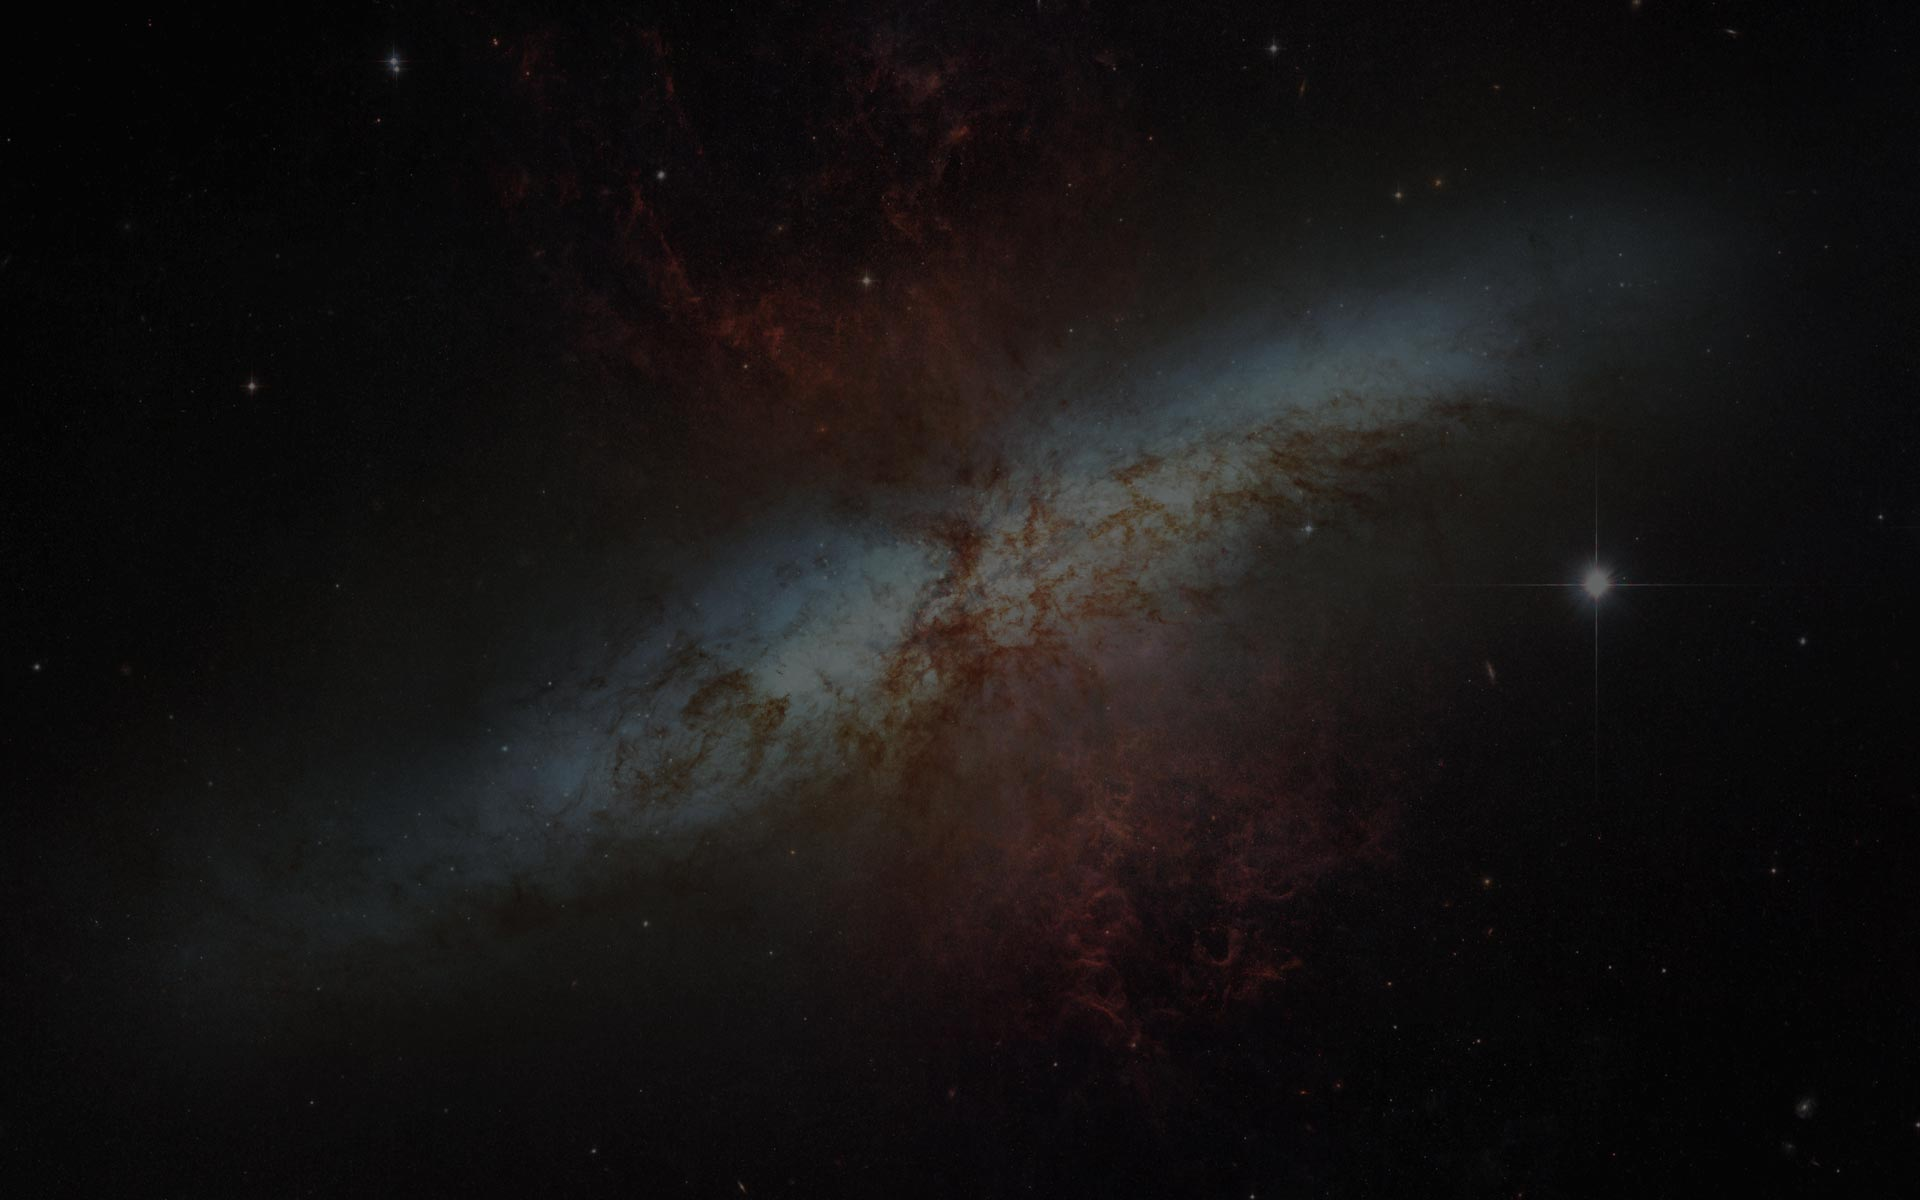
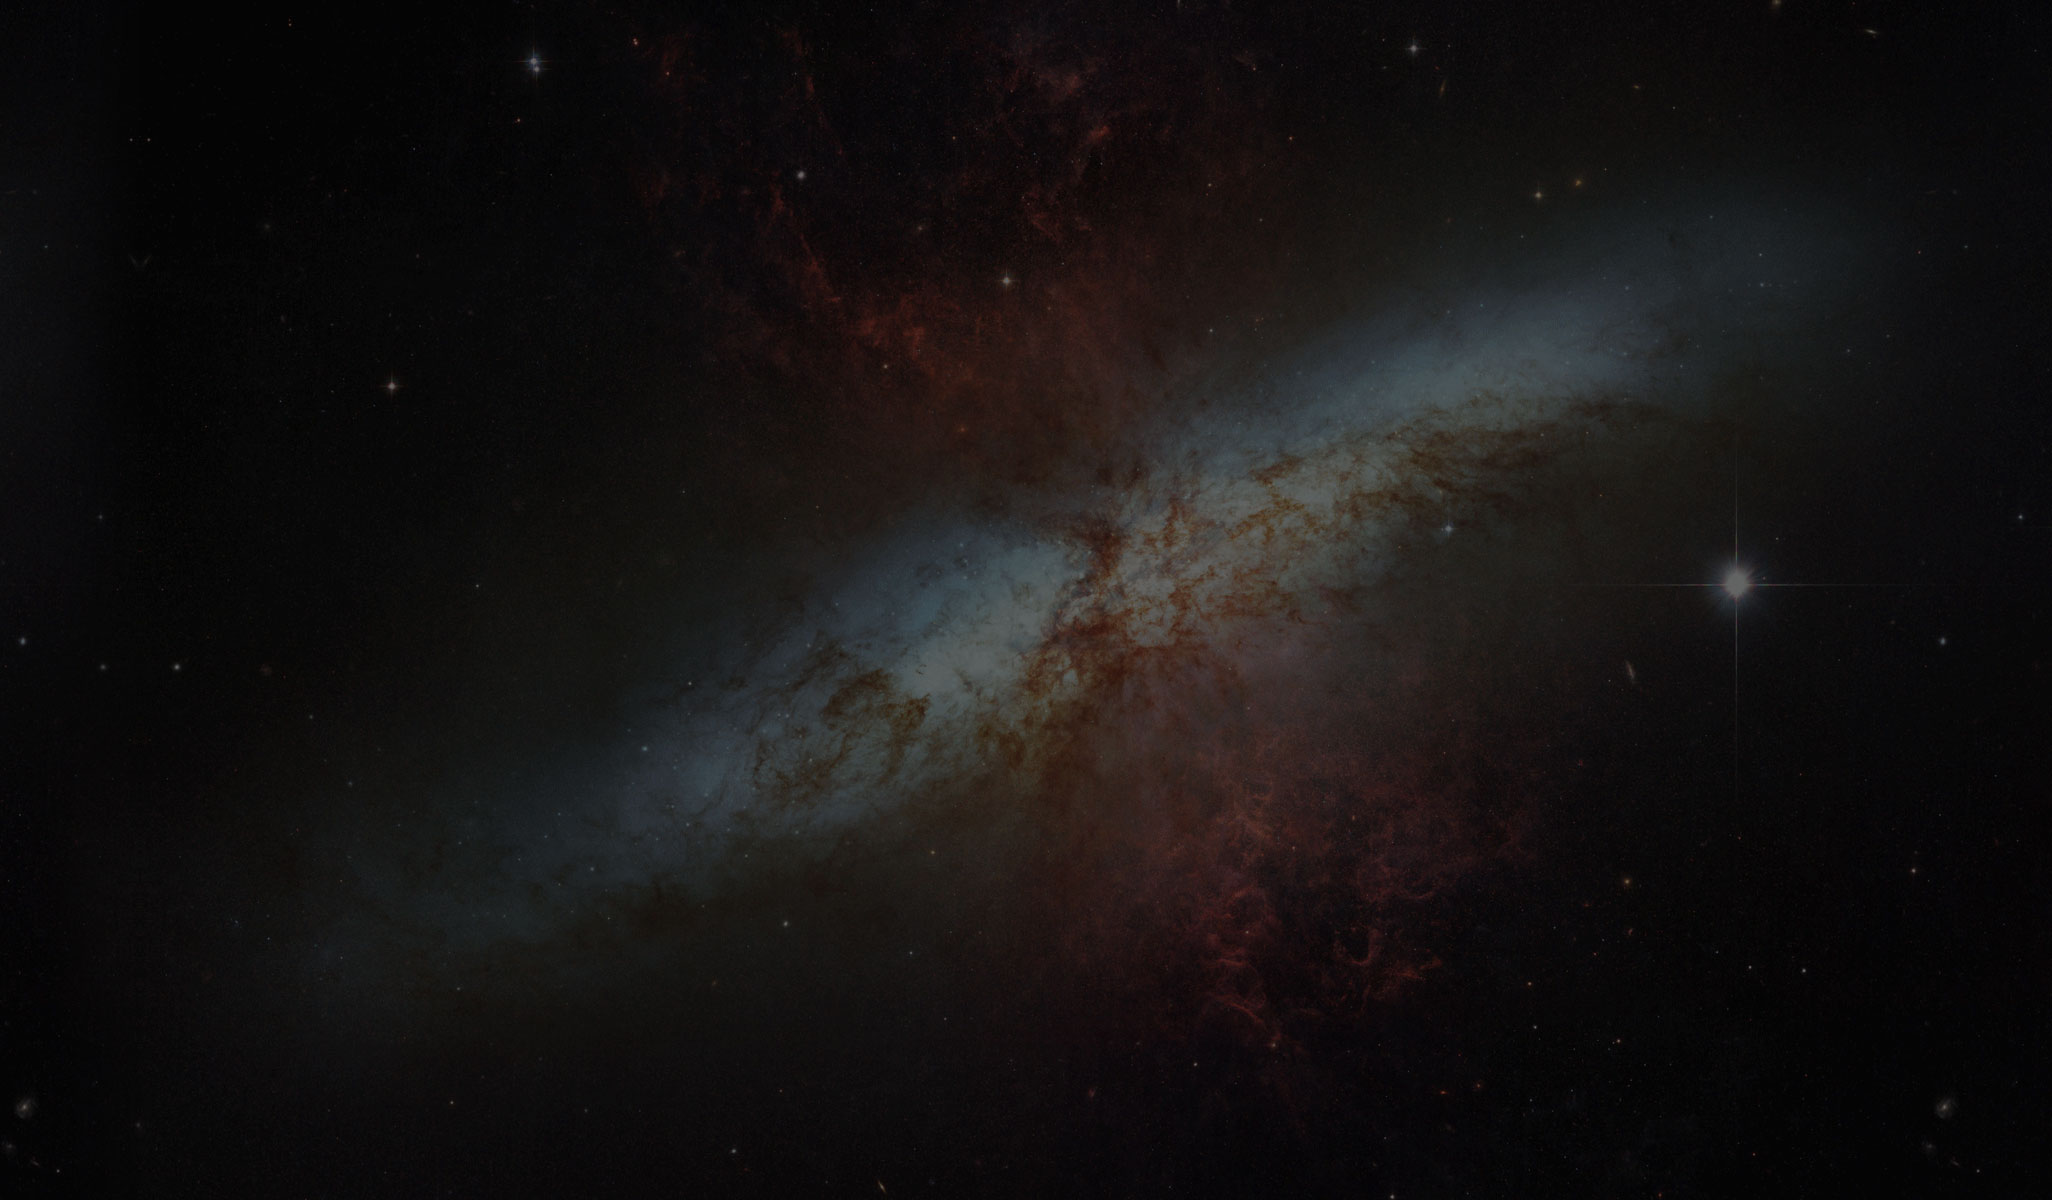
fixed background scroll

diff --git a/app/stylesheets/partials/_media.sass b/app/stylesheets/partials/_media.sass
@@ -10,10 +10,9 @@
 @media all and (orientation:portrait)
   // Style adjustments for portrait mode goes here
   #skills
-    margin-top: 10px
-    margin-left: 0px
-    margin-bottom: 20px
-
+    position: static
+    margin-top: 20px
+    
 @media all and (orientation:landscape)
   // Style adjustments for landscape mode goes here
 

diff --git a/public/stylesheets/compiled/style.css b/public/stylesheets/compiled/style.css
@@ -629,9 +629,8 @@ label {
 @media all and (orientation:portrait) {
   /* line 12, ../../../app/stylesheets/partials/_media.sass */
   #skills {
-    margin-top: 10px;
-    margin-left: 0px;
-    margin-bottom: 20px;
+    position: static;
+    margin-top: 20px;
   }
 }
 

diff --git a/public/javascripts/application.js b/public/javascripts/application.js
@@ -5,7 +5,7 @@
 // Let's choose a ratio between 0 and 1
 
 var r = .1;
-var x = -800;
+var x = 0;
 var delay = 70;
 
 var width = 1920;
